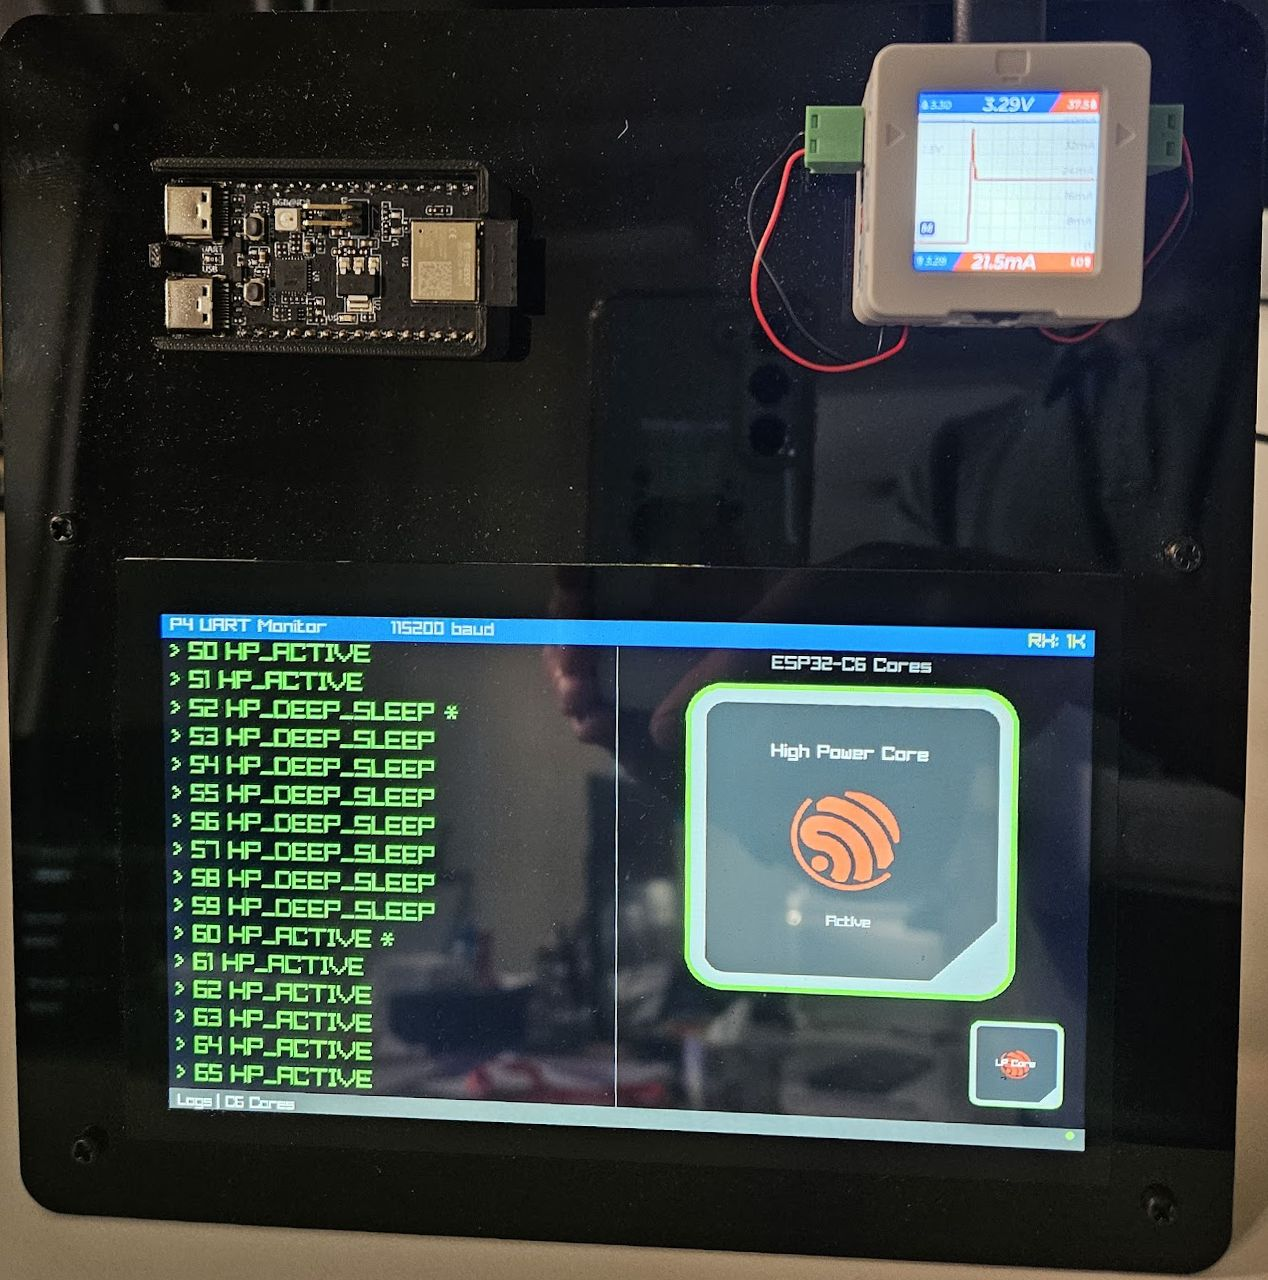
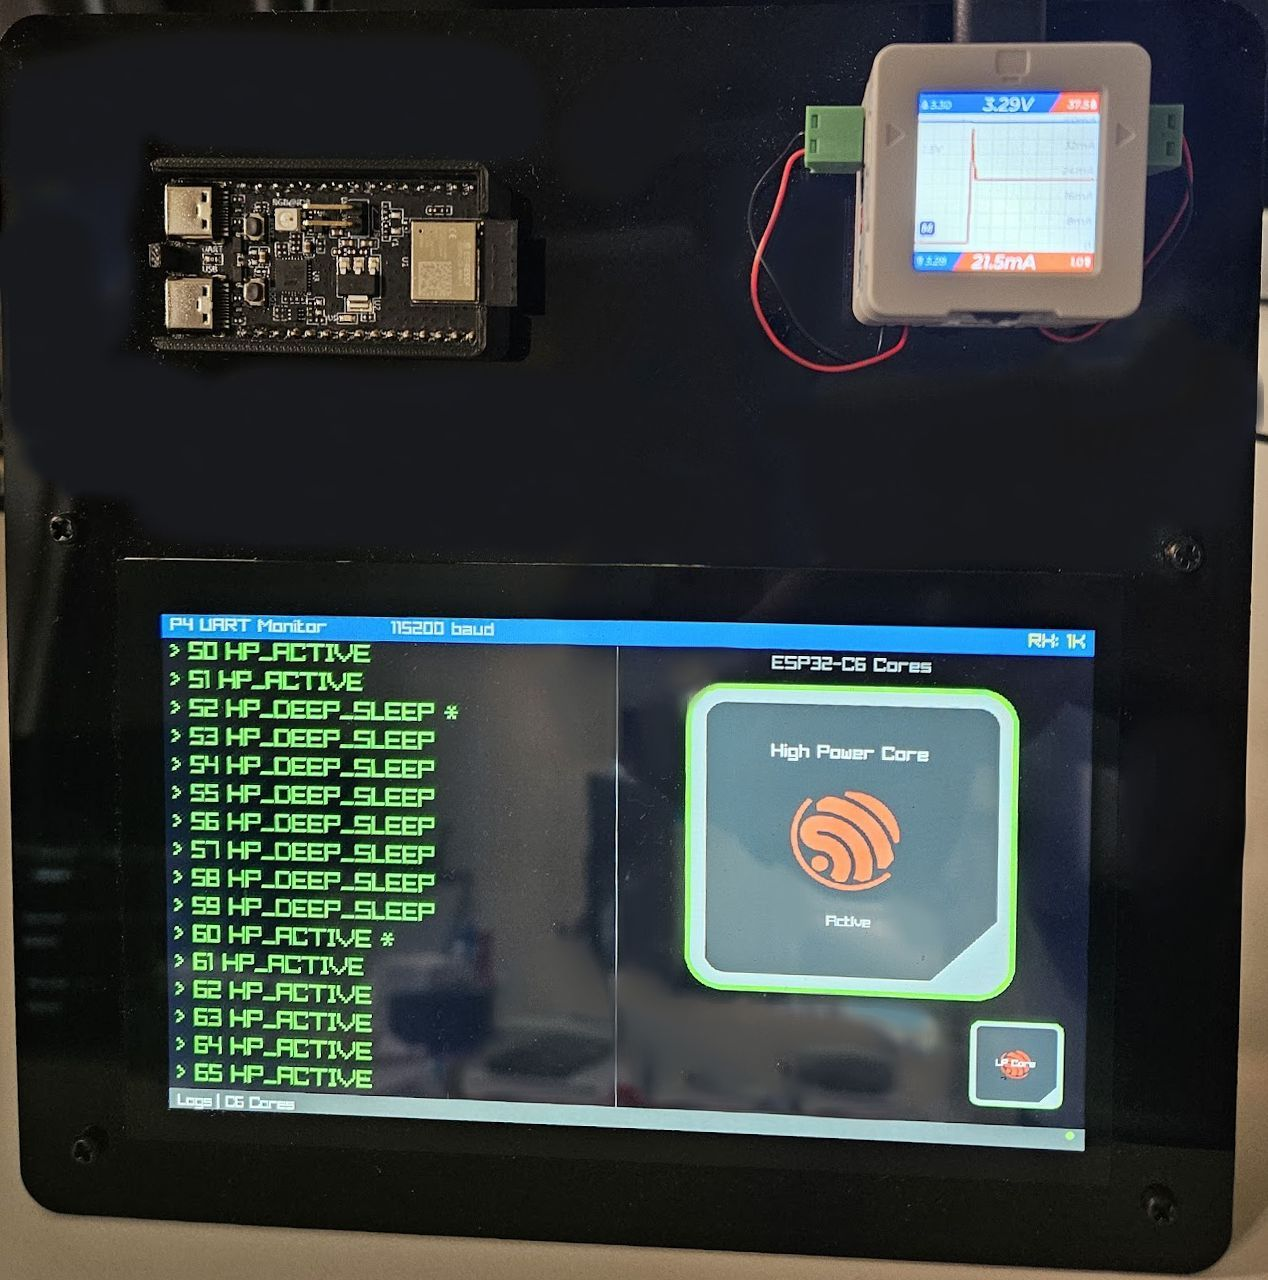
add Riverdi

diff --git a/README.md b/README.md
@@ -2,30 +2,30 @@ This repository hosts resources for all the demos presented by Espressif at Make
 
 [Maker Faire Prague, 2026](https://makerfaire.cz/projekt/espressif-systems-czech/) (Espressif presentation: hall C, stand 3)
 
-| Demo                                                                                                                                                                                                | Photo                             |
-|-----------------------------------------------------------------------------------------------------------------------------------------------------------------------------------------------------|-----------------------------------|
-| [MultiPlayer OpenTyrian - ESP32-P4](https://github.com/georgik/OpenTyrian) with USB Keyboard and Mouse support, rendering based on [SDL3](https://components.espressif.com/components/georgik/sdl/) | ![](imgs/open-tyrian.jpg)         |
-| [ESP32-C6 Low Power Demo](https://codeberg.org/georgik/esp32-c6-low-power-uart) with [ESP32-P4 UART Monitor](https://codeberg.org/georgik/esp32-p4-ui-uart-logger), rendering based on [Raylib](https://components.espressif.com/components/georgik/raylib)   | ![](imgs/esp32-c6-lp-demo.jpg)    |
-| [ESP32-P4 Riverdi Display - LVGL](https://riverdi.com/)                                                                                                                                             | ![](imgs/)                        |
-| [ESP-Snake](https://github.com/peterdragun/esp-snake) [NuttX](https://github.com/NuttX/NuttX)                                                                                                       | ![](imgs/2-esp-snake.jpeg)        |
-| [T-rexino](https://github.com/SuGlider/T-Rexino)                                                                                                                                                    | ![](imgs/3-t-rexino.jpeg)         |
-| [Flow3r](https://git.flow3r.garden/flow3r)                                                                                                                                                          | ![](imgs/4-flow3r.jpeg)           |
-| [Time-O-Mat](https://github.com/vedatori/time-o-mat)                                                                                                                                                | ![](imgs/5-time-o-mat.jpeg)       |
-| [Matter](https://github.com/espressif/esp-matter)                                                                                                                                                   | ![](imgs/6-matter.jpeg)           |
-| [Bruce](https://bruce.computer)                                                                                                                                                                     | ![](imgs/7-bruce.jpeg)            |
-| [ChatGPT](https://github.com/espressif/esp-box/tree/master/examples/chatgpt_demo)                                                                                                                   | ![](imgs/8-chat-gpt.jpeg)         |
-| [ESP32-S3-Box-3](https://github.com/espressif/esp-box/tree/master/examples/mp3_demo)                                                                                                                | ![](imgs/9-esps3-box.jpeg)        |
-| [WLED](https://kno.wled.ge)                                                                                                                                                                         | ![](imgs/10-wled.jpeg)            |
-| [Audio Development Framework (ESP-ADF)](https://github.com/espressif/esp-adf/tree/master/examples/player/pipeline_http_mp3)                                                                         | ![](imgs/11-esp-adf.jpeg)         |
-| [ESP Serial Flasher demo](https://github.com/Dzarda7/esf-demo)                                                                                                                                      | ![](imgs/12-esf-demo.jpeg)        |
-| [Slint demo](https://slint.dev)                                                                                                                                                                     | ![](imgs/13-slint-demo.jpeg)      |
-| [ESP32-P4 USB Camera](https://github.com/peter-marcisovsky/esp-usb-demo?tab=readme-ov-file)                                                                                                         | ![](imgs/14-usb-cam.jpeg)         |
-| [Arduino Zigbee](https://github.com/P-R-O-C-H-Y/EmbeddedWorldZigbeeDemo2025)                                                                                                                        | ![](imgs/15-arduino-zigbee.jpeg)  |
-| [Arduino Matter](https://github.com/SuGlider/EmbeddedWorldMatterDemo2025)                                                                                                                           | ![](imgs/16-arduino-matter.jpeg)  |
-| [ESPot](https://github.com/Honza0297/espot)                                                                                                                                                         | ![](imgs/17-espot.jpeg)           |
-| [Tetris](https://github.com/Hahihula/no_std_tetris/tree/master/esp32_c3_example)                                                                                                                    | ![](imgs/18-tetris.jpeg)          |
-| [HOPE XV Electronic Badge](https://wiki.hope.net/index.php?title=HOPE_XV_Electronic_Badge#Open_Hardware)                                                                                            | ![](imgs/19-hope-xv-badge.jpeg)   |
-| [Minino](https://electroniccats.com/store/minino/)                                                                                                                                                  | ![](imgs/20-minino.jpeg)          |
-| [Franziniho Wi-Fi](https://github.com/Franzininho)                                                                                                                                                  | ![](imgs/21-franziniho-wifi.jpeg) |
-| [Walter IoT](https://www.quickspot.io)                                                                                                                                                              | ![](imgs/22-walter-iot.jpeg)      |0
-| [ESP32-P4 Eye](https://docs.espressif.com/projects/esp-dev-kits/en/latest/esp32p4/esp32-p4-eye/user_guide.html)                                                                                     | ![](imgs/23-esp32-p4-eye.jpeg)    |
+| Demo                                                                                                                                                                                                                                                                                                                                                                 | Photo                             |
+|----------------------------------------------------------------------------------------------------------------------------------------------------------------------------------------------------------------------------------------------------------------------------------------------------------------------------------------------------------------------|-----------------------------------|
+| [MultiPlayer OpenTyrian - ESP32-P4](https://github.com/georgik/OpenTyrian) with USB Keyboard and Mouse support, rendering based on [SDL3](https://components.espressif.com/components/georgik/sdl/)                                                                                                                                                                  | ![](imgs/open-tyrian.jpg)         |
+| [ESP32-C6 Low Power Demo](https://codeberg.org/georgik/esp32-c6-low-power-uart) with [M5Stack VA Meter](https://docs.m5stack.com/en/core/VA%20Meter) for power consumption monitor on 3V3 and [ESP32-P4 UART Monitor](https://codeberg.org/georgik/esp32-p4-ui-uart-logger), rendering based on [Raylib](https://components.espressif.com/components/georgik/raylib) | ![](imgs/esp32-c6-lp-demo.jpg)    |
+| [ESP32-P4 Riverdi Display - LVGL](https://riverdi.com/)                                                                                                                                                                                                                                                                                                              | ![](imgs/esp32-p4-riverdi.jpg)    |
+| [ESP-Snake](https://github.com/peterdragun/esp-snake) [NuttX](https://github.com/NuttX/NuttX)                                                                                                                                                                                                                                                                        | ![](imgs/2-esp-snake.jpeg)        |
+| [T-rexino](https://github.com/SuGlider/T-Rexino)                                                                                                                                                                                                                                                                                                                     | ![](imgs/3-t-rexino.jpeg)         |
+| [Flow3r](https://git.flow3r.garden/flow3r)                                                                                                                                                                                                                                                                                                                           | ![](imgs/4-flow3r.jpeg)           |
+| [Time-O-Mat](https://github.com/vedatori/time-o-mat)                                                                                                                                                                                                                                                                                                                 | ![](imgs/5-time-o-mat.jpeg)       |
+| [Matter](https://github.com/espressif/esp-matter)                                                                                                                                                                                                                                                                                                                    | ![](imgs/6-matter.jpeg)           |
+| [Bruce](https://bruce.computer)                                                                                                                                                                                                                                                                                                                                      | ![](imgs/7-bruce.jpeg)            |
+| [ChatGPT](https://github.com/espressif/esp-box/tree/master/examples/chatgpt_demo)                                                                                                                                                                                                                                                                                    | ![](imgs/8-chat-gpt.jpeg)         |
+| [ESP32-S3-Box-3](https://github.com/espressif/esp-box/tree/master/examples/mp3_demo)                                                                                                                                                                                                                                                                                 | ![](imgs/9-esps3-box.jpeg)        |
+| [WLED](https://kno.wled.ge)                                                                                                                                                                                                                                                                                                                                          | ![](imgs/10-wled.jpeg)            |
+| [Audio Development Framework (ESP-ADF)](https://github.com/espressif/esp-adf/tree/master/examples/player/pipeline_http_mp3)                                                                                                                                                                                                                                          | ![](imgs/11-esp-adf.jpeg)         |
+| [ESP Serial Flasher demo](https://github.com/Dzarda7/esf-demo)                                                                                                                                                                                                                                                                                                       | ![](imgs/12-esf-demo.jpeg)        |
+| [Slint demo](https://slint.dev)                                                                                                                                                                                                                                                                                                                                      | ![](imgs/13-slint-demo.jpeg)      |
+| [ESP32-P4 USB Camera](https://github.com/peter-marcisovsky/esp-usb-demo?tab=readme-ov-file)                                                                                                                                                                                                                                                                          | ![](imgs/14-usb-cam.jpeg)         |
+| [Arduino Zigbee](https://github.com/P-R-O-C-H-Y/EmbeddedWorldZigbeeDemo2025)                                                                                                                                                                                                                                                                                         | ![](imgs/15-arduino-zigbee.jpeg)  |
+| [Arduino Matter](https://github.com/SuGlider/EmbeddedWorldMatterDemo2025)                                                                                                                                                                                                                                                                                            | ![](imgs/16-arduino-matter.jpeg)  |
+| [ESPot](https://github.com/Honza0297/espot)                                                                                                                                                                                                                                                                                                                          | ![](imgs/17-espot.jpeg)           |
+| [Tetris](https://github.com/Hahihula/no_std_tetris/tree/master/esp32_c3_example)                                                                                                                                                                                                                                                                                     | ![](imgs/18-tetris.jpeg)          |
+| [HOPE XV Electronic Badge](https://wiki.hope.net/index.php?title=HOPE_XV_Electronic_Badge#Open_Hardware)                                                                                                                                                                                                                                                             | ![](imgs/19-hope-xv-badge.jpeg)   |
+| [Minino](https://electroniccats.com/store/minino/)                                                                                                                                                                                                                                                                                                                   | ![](imgs/20-minino.jpeg)          |
+| [Franziniho Wi-Fi](https://github.com/Franzininho)                                                                                                                                                                                                                                                                                                                   | ![](imgs/21-franziniho-wifi.jpeg) |
+| [Walter IoT](https://www.quickspot.io)                                                                                                                                                                                                                                                                                                                               | ![](imgs/22-walter-iot.jpeg)      |0
+| [ESP32-P4 Eye](https://docs.espressif.com/projects/esp-dev-kits/en/latest/esp32p4/esp32-p4-eye/user_guide.html)                                                                                                                                                                                                                                                      | ![](imgs/23-esp32-p4-eye.jpeg)    |
